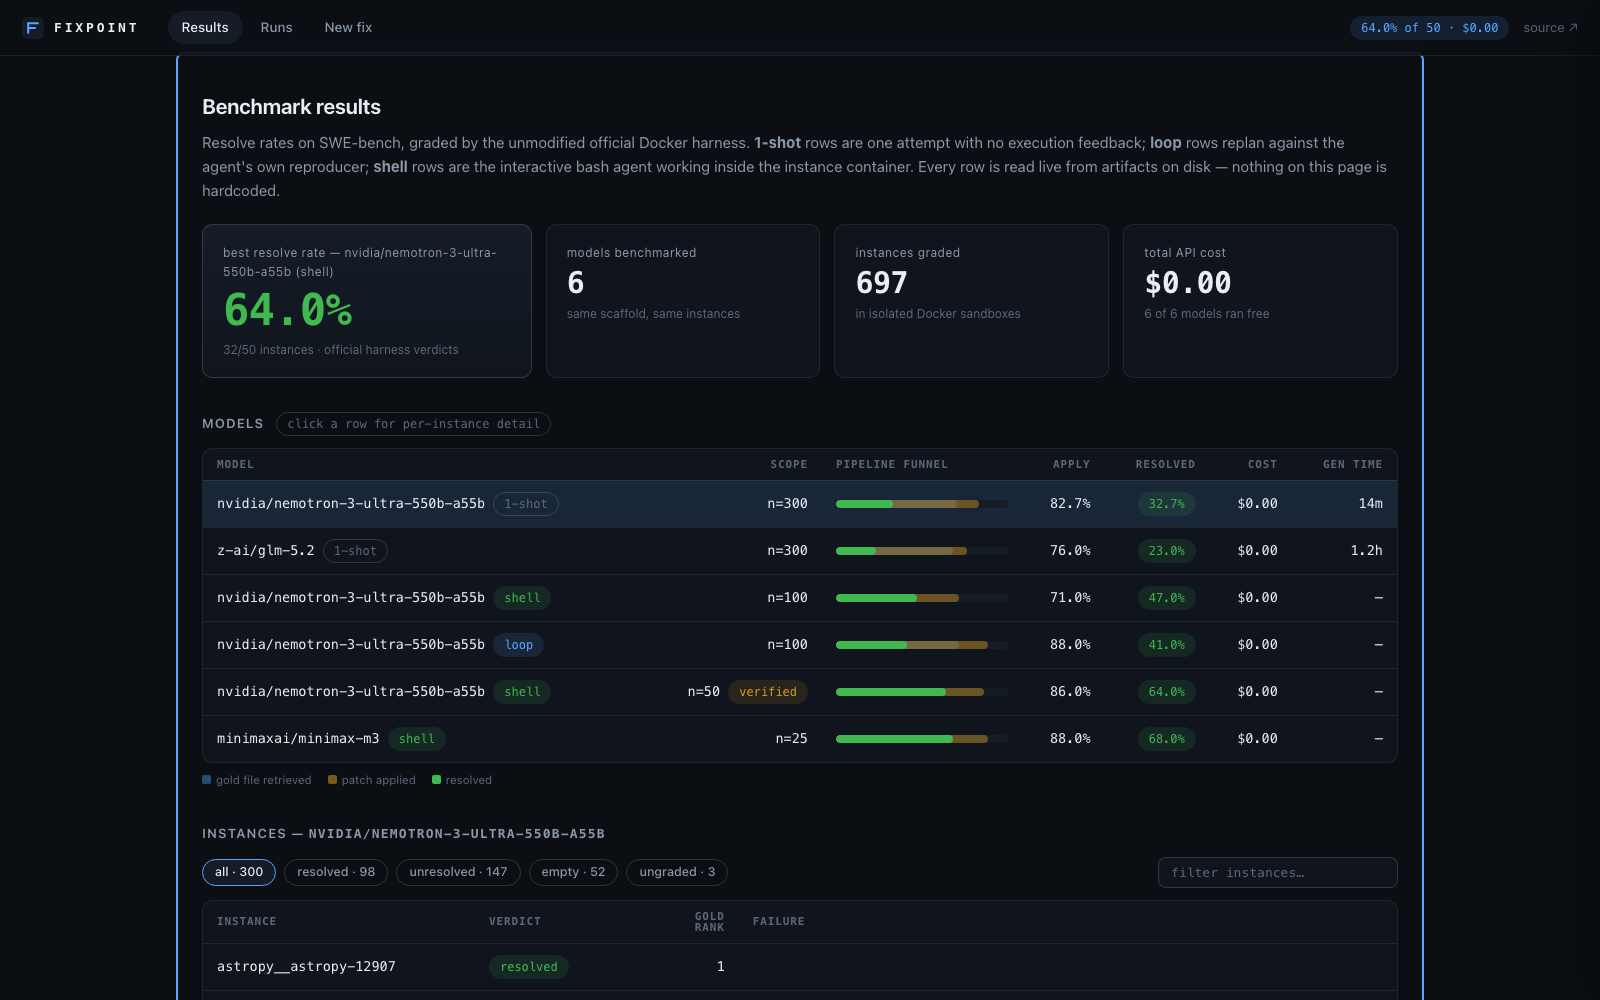
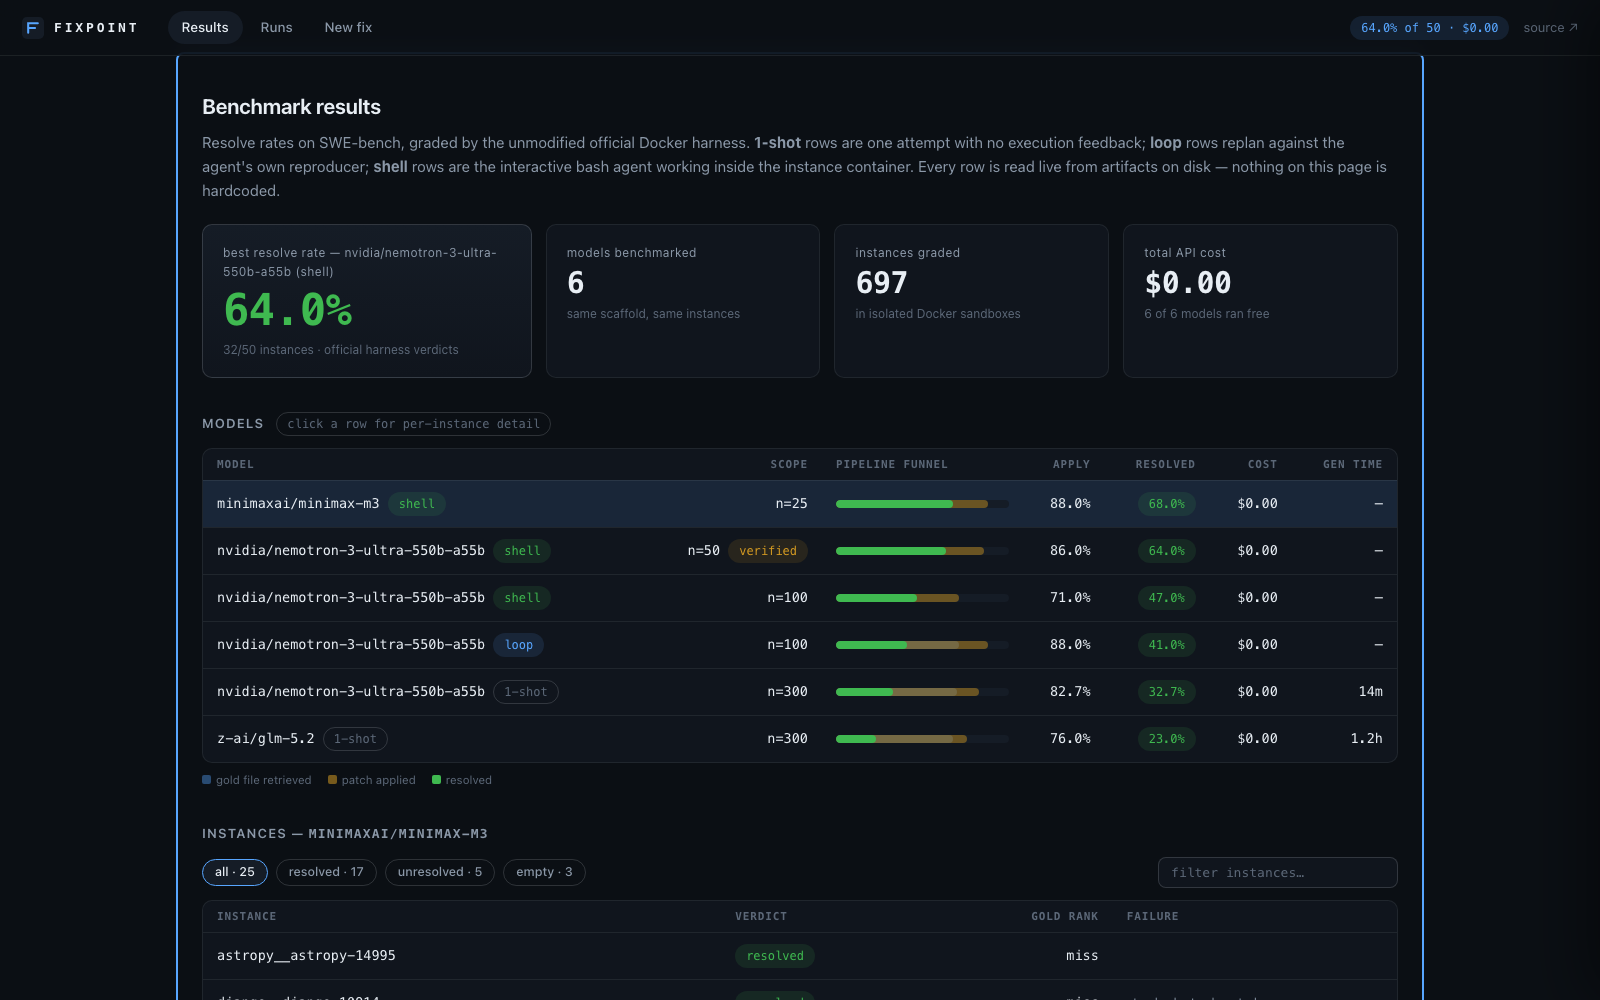
Put shell rows first and dim the baseline rows

diff --git a/web/app.js b/web/app.js
@@ -66,6 +66,14 @@ async function showResults() {
       <p class="mono">python scripts/run_singleshot.py --n 25</p></div>`;
     return;
   }
+  // Shell rows lead the table (the current architecture), baselines follow —
+  // sorted within each group by scope. The baselines stay on the board on
+  // purpose: 32.7% -> 47% on identical instances is the proof the shell
+  // agent earned its number.
+  const modeRank = { shell: 0, loop: 1, "single-shot": 2 };
+  models.sort((a, b) => (modeRank[a.mode] ?? 3) - (modeRank[b.mode] ?? 3)
+    || (b.resolve_rate ?? -1) - (a.resolve_rate ?? -1) || (b.n ?? 0) - (a.n ?? 0));
+
   // Headline = the best resolve rate among COMPLETE, substantially-graded
   // campaigns. Sorting by n alone once put a 32.7% row above a 64% one, and a
   // suspended partial must never headline on its misleading interim rate.
@@ -125,7 +133,7 @@ async function showResults() {
           <th class="num">apply</th><th class="num">resolved</th><th class="num">cost</th><th class="num">gen time</th></tr></thead>
         <tbody id="model-rows">
           ${models.map((m) => `
-            <tr data-dir="${esc(m.dir)}">
+            <tr data-dir="${esc(m.dir)}" class="${m.mode === "shell" ? "" : "row-baseline"}">
               <td class="mono">${esc(shortModel(m.model))}
                 ${m.mode === "shell"
                   ? '<span class="chip chip-green" title="interactive bash agent: explores, edits, and tests inside the container">shell</span>'

diff --git a/web/app.css b/web/app.css
@@ -260,3 +260,4 @@ td.num, th.num { text-align: right; font-family: var(--mono); }
 @media (prefers-reduced-motion: reduce) {
   * { animation: none !important; transition: none !important; }
 }
+\n/* Earlier-architecture rows: present but visually subordinate to shell rows. */\n.row-baseline td { opacity: .68; }\n.row-baseline:hover td, .row-baseline.selected td { opacity: 1; }\n
